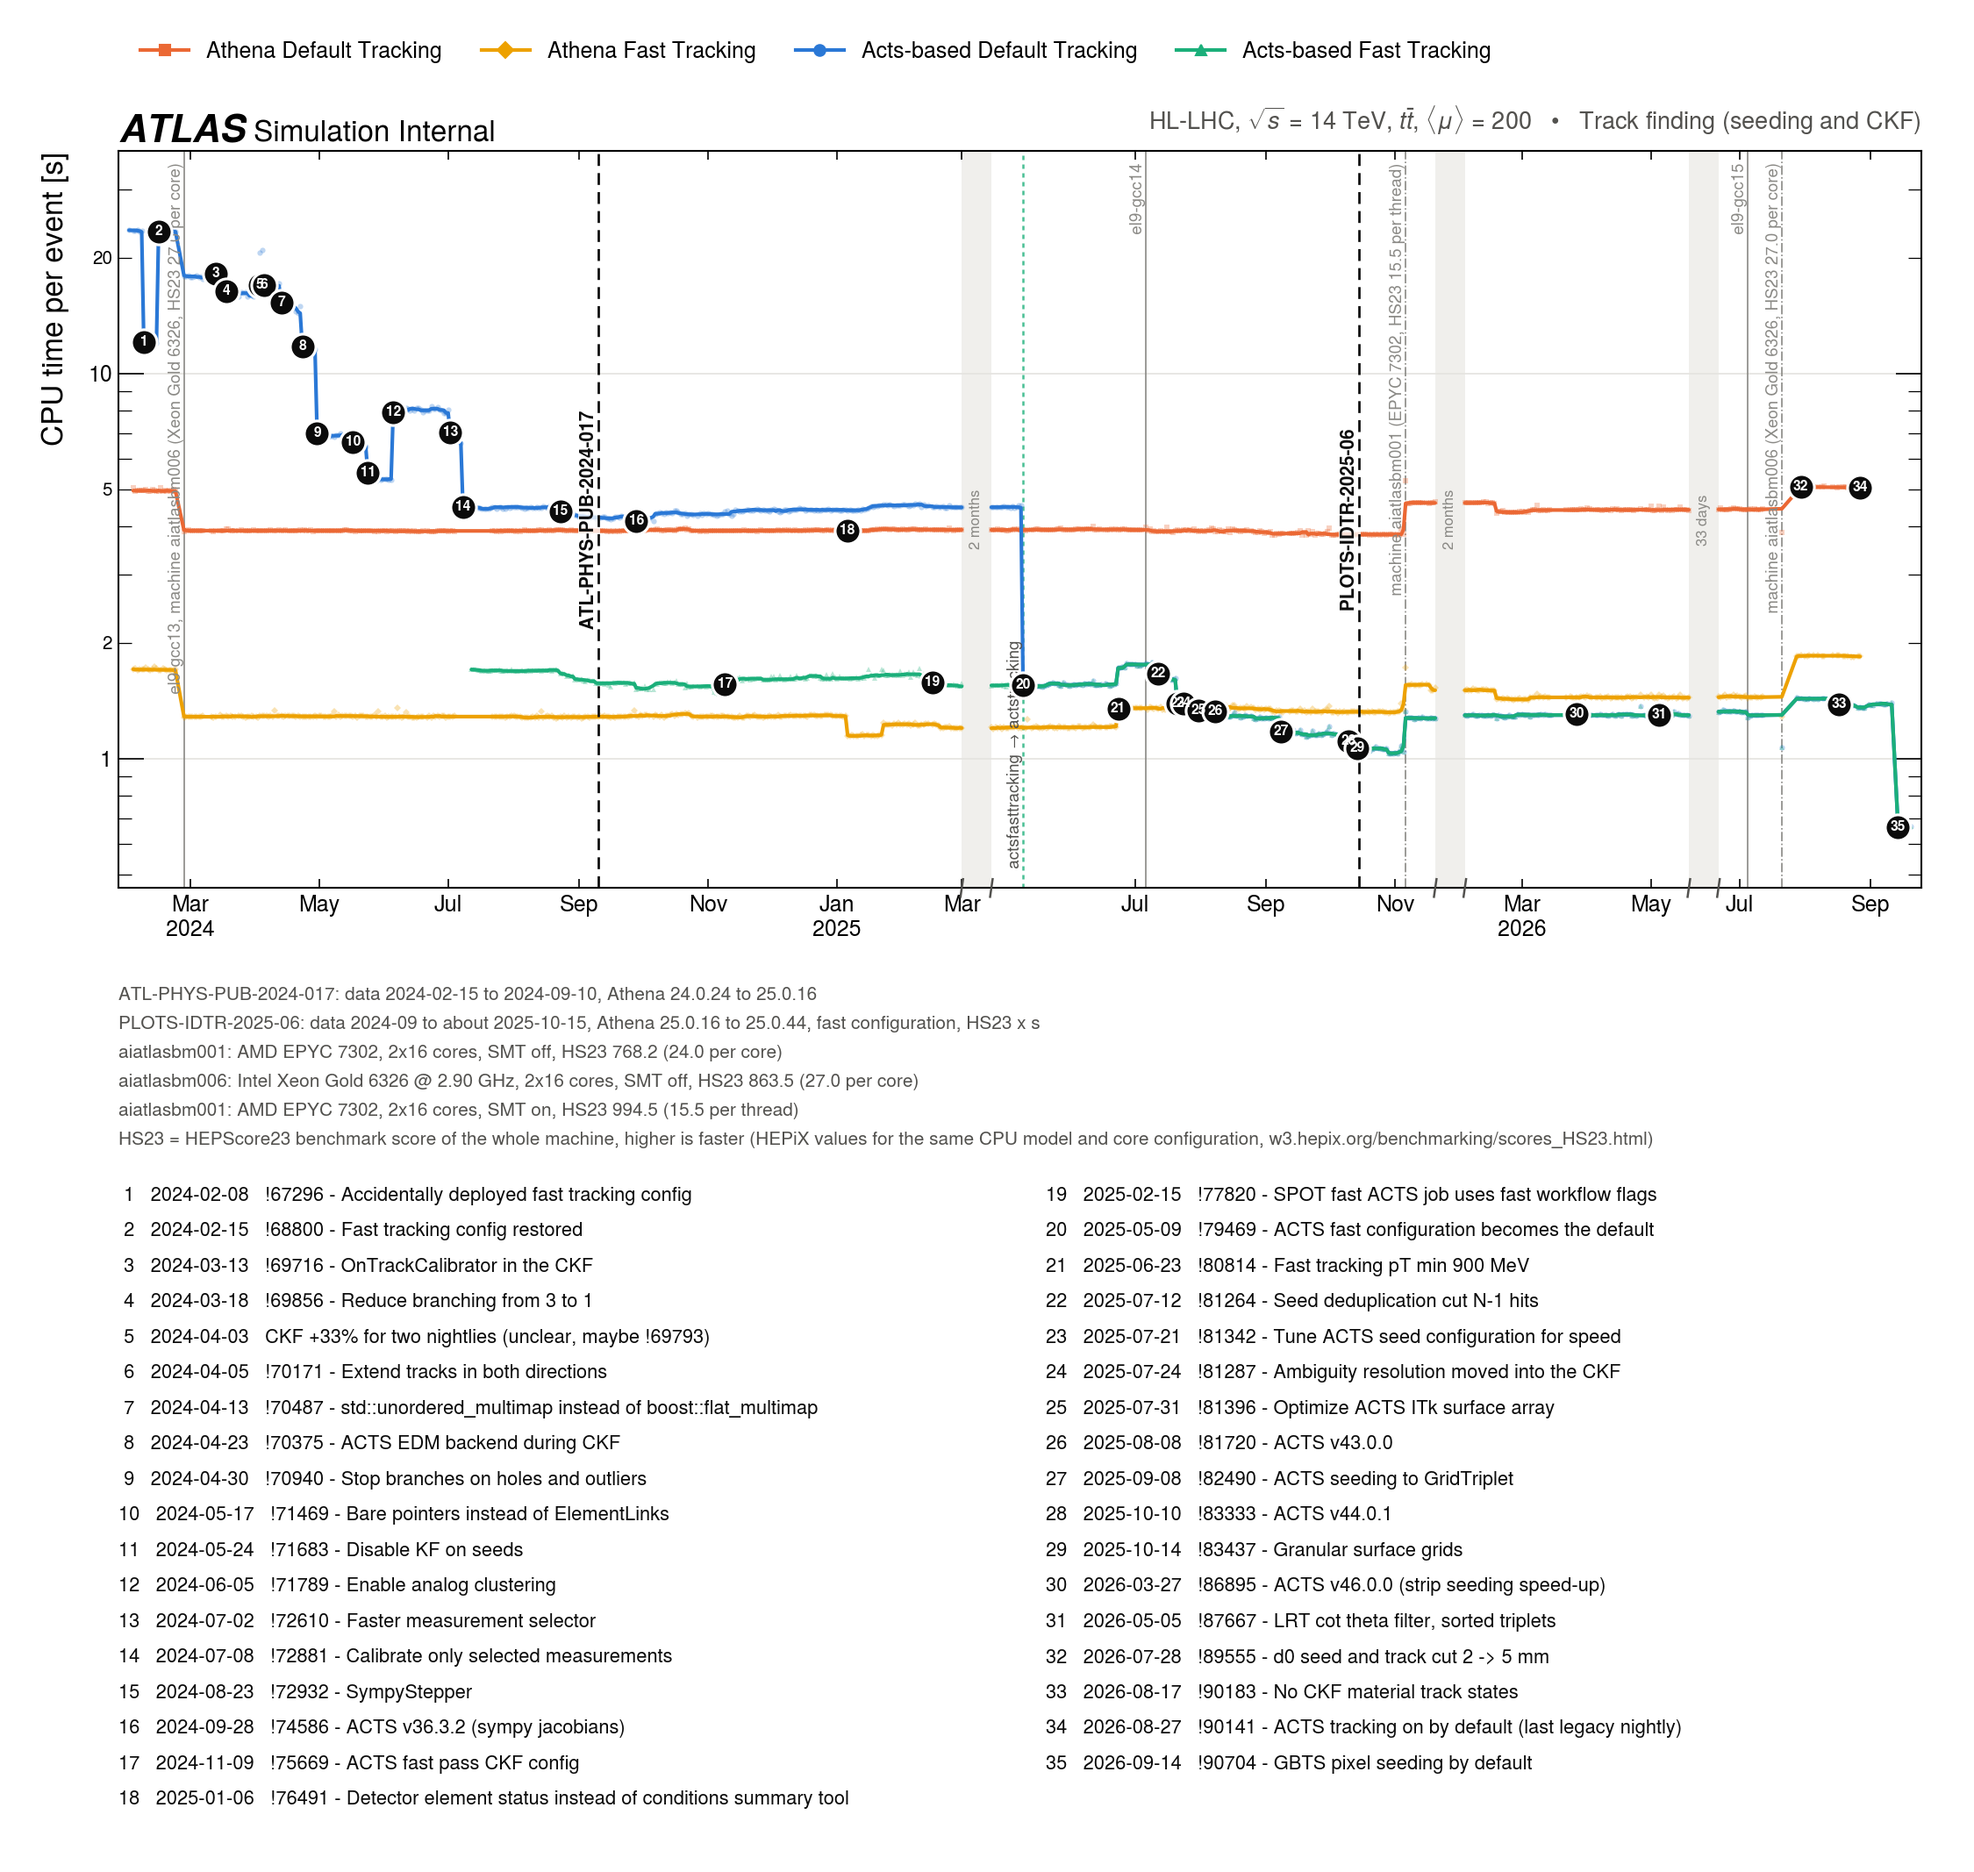
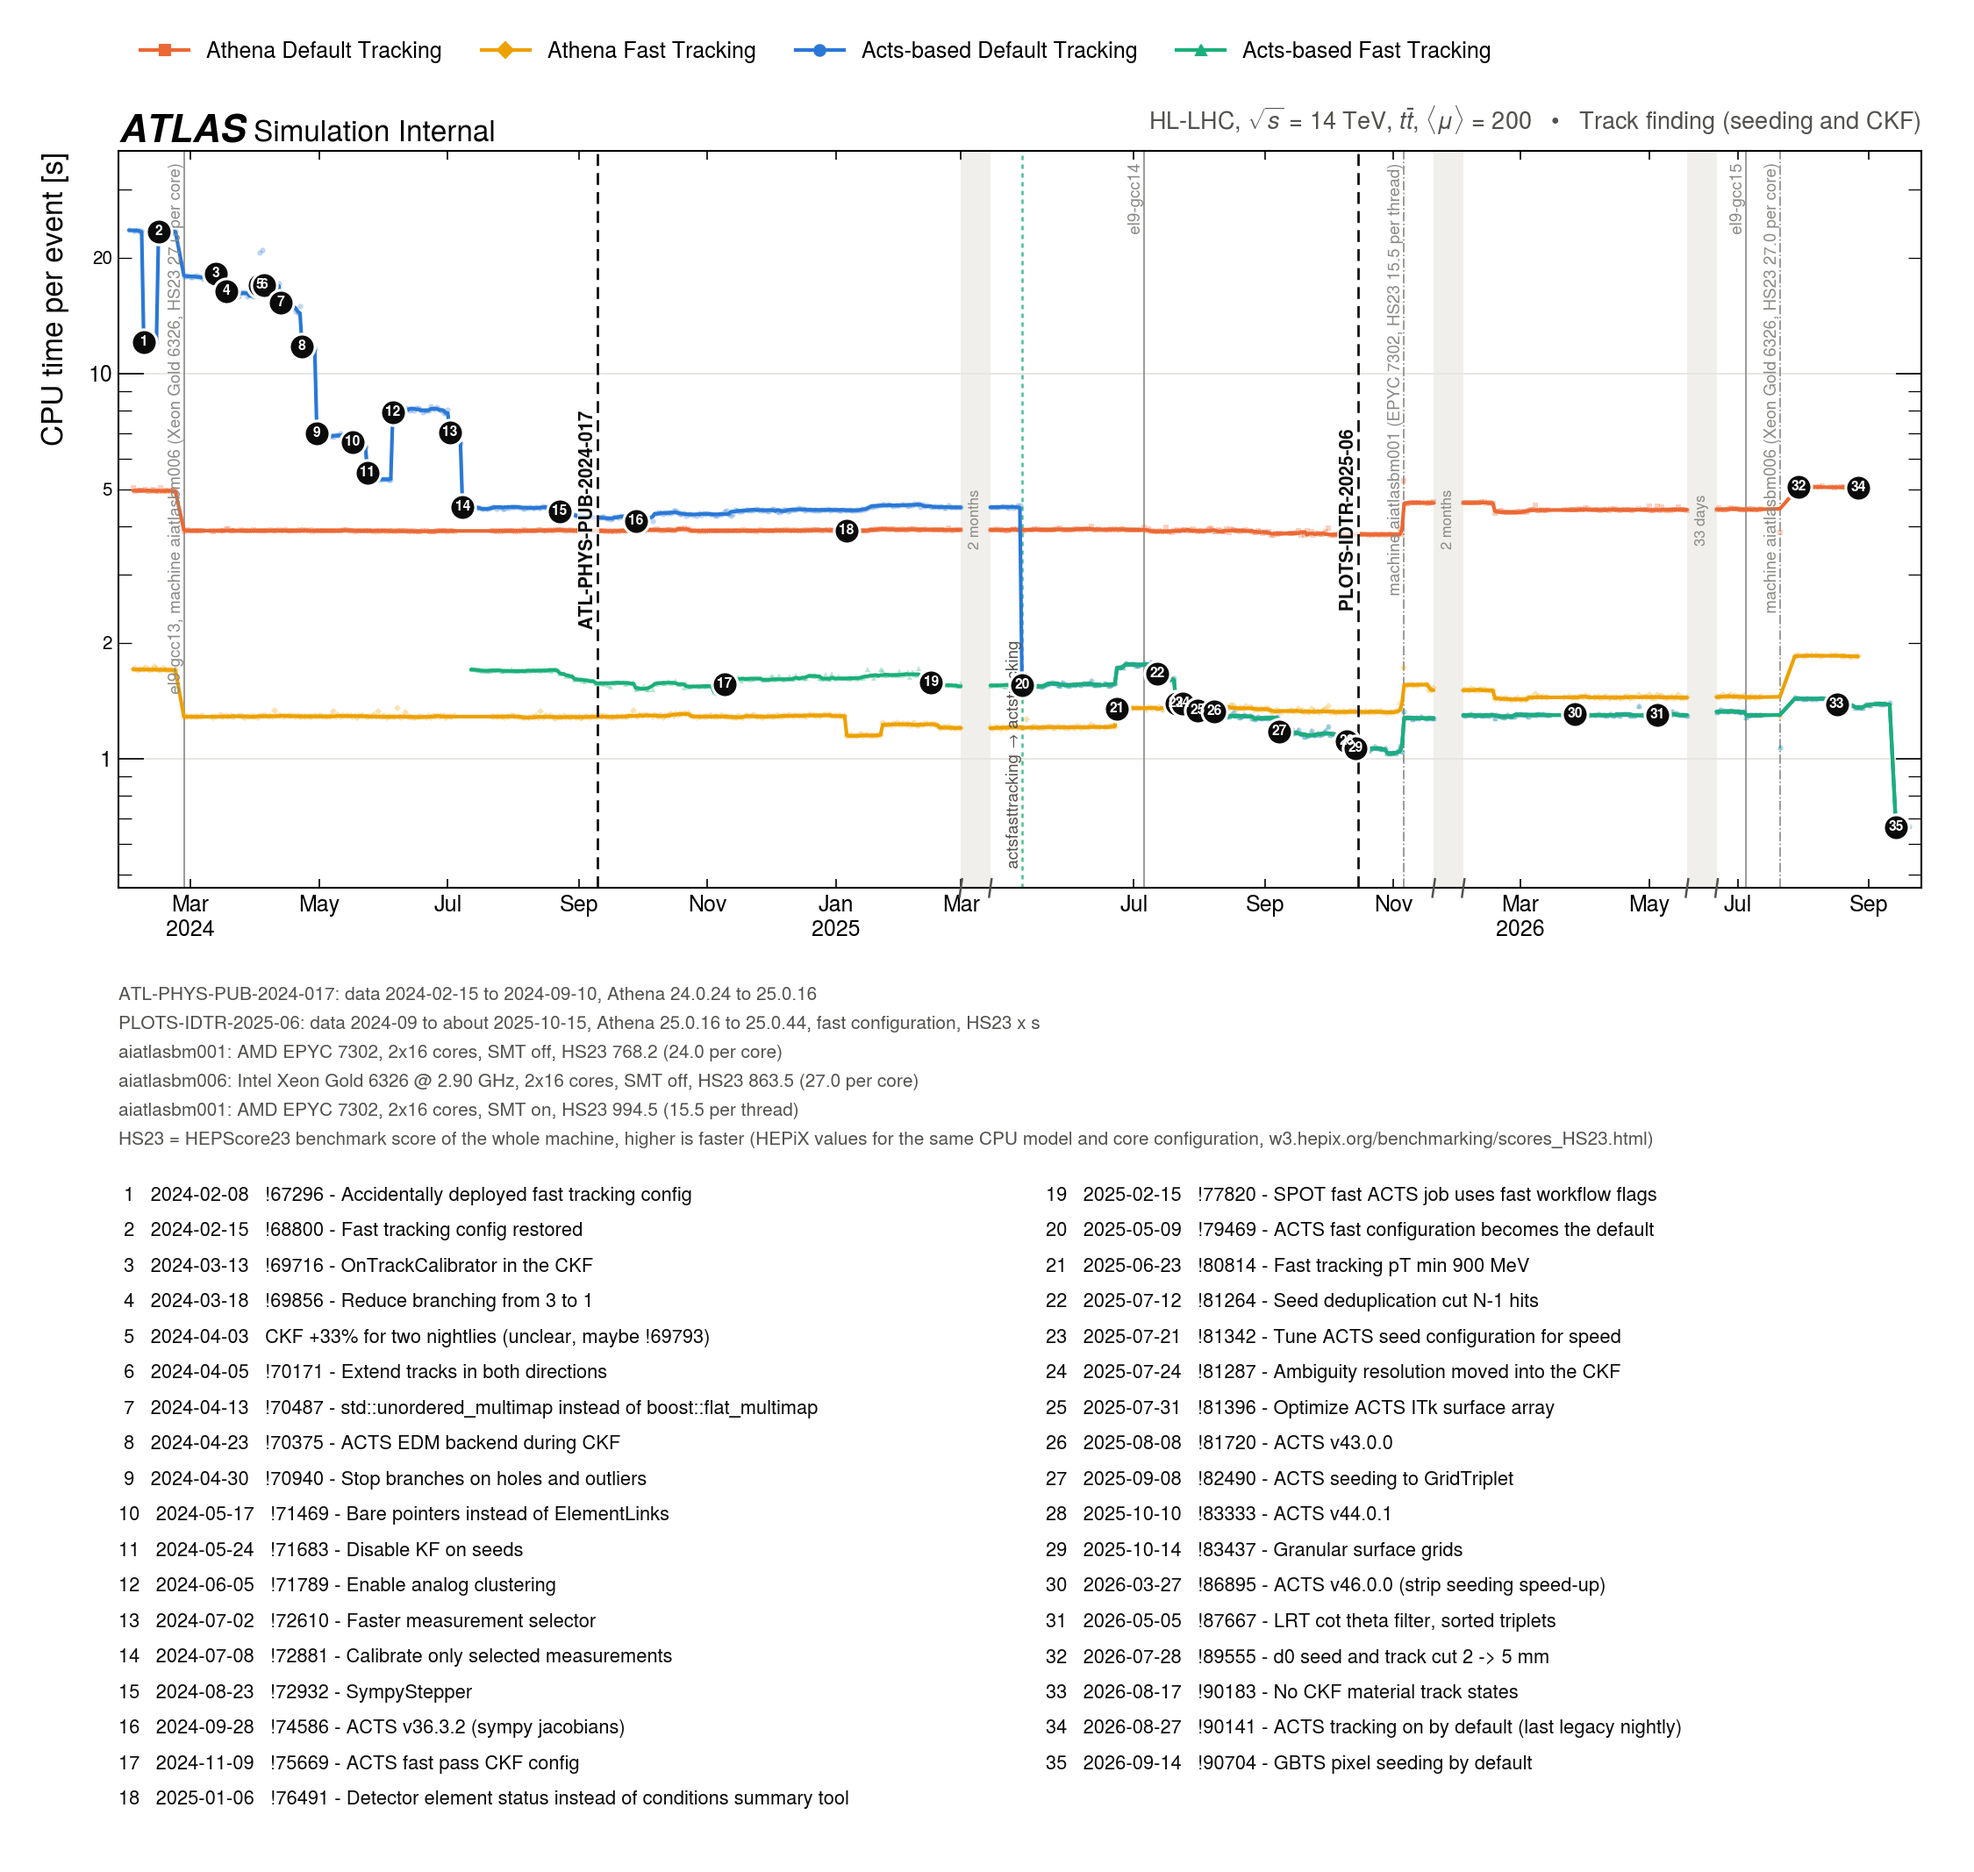
compare the fast and the full configurations in the full chain plot; add the CKF plot
The full chain plot shows the legacy fast and the ACTS fast configurations next
to the default ones. The ACTS full configuration follows the acts_legacy flavor,
because it is the ACTS default until 2025-05-08.

All plots start on 2024-02-01, and the plotter takes the x range from the dates
of the config, so that plots with the same dates have the same x range.

The labels of two moves on about the same date go to both sides of the lines.
The plotter sorts the moves by date, so the label of the left line goes to the
left.

Annotate the new SPOT input geometry (!90482) and ACTS v47.7.0 (!90675), because
they change the efficiency.

Claude-Session: https://claude.ai/code/session_019eX9tgjMzsAdBJ779KSB3S

diff --git a/spotter/plotter.py b/spotter/plotter.py
@@ -213,8 +213,9 @@ def plot_timeseries(
     numbers the annotations in a list below the plot.
     """
     flavors = config["flavors"]
-    start = min(df.index.min() for df in data.values() if len(df) > 0)
-    end = max(df.index.max() for df in data.values() if len(df) > 0)
+    # the dates of the config, so that plots with the same dates have the same x range
+    start = pd.Timestamp(config["dates"]["start"])
+    end = pd.Timestamp(config["dates"]["end"])
 
     # the layout in inches, so that it does not depend on the number of annotations
     columns = 2 if len(annotations) > 8 else 1
@@ -239,7 +240,7 @@ def plot_timeseries(
         ]
     )
 
-    tag_label_x: list[float] = []
+    moves: list[tuple[float, str, str]] = []
     for flavor, df in data.items():
         if len(df) == 0:
             continue
@@ -262,22 +263,25 @@ def plot_timeseries(
         for d, old, new in tag_changes(df):
             if axis.is_cut([d])[0]:
                 continue
-            xd = axis.forward([d])[0]
-            # two moves on about the same date get their labels on both sides
-            side = "left" if any(abs(xd - x) < 15 for x in tag_label_x) else "right"
-            tag_label_x.append(xd)
-            ax.axvline(xd, color=color, lw=1.2, ls=(0, (2, 2)), alpha=0.8, zorder=1)
-            ax.text(
-                xd,
-                0.02,
-                f" {old} → {new}",
-                transform=blended_transform_factory(ax.transData, ax.transAxes),
-                rotation=90,
-                ha=side,
-                va="bottom",
-                fontsize=9,
-                color=TEXT_SECONDARY,
-            )
+            moves.append((axis.forward([d])[0], color, f" {old} → {new}"))
+
+    # two moves on about the same date get their labels on both sides:
+    # the label of the left line goes to the left, and the other label to the right
+    moves.sort(key=lambda m: m[0])
+    for i, (xd, color, label) in enumerate(moves):
+        side = "left" if i > 0 and xd - moves[i - 1][0] < 15 else "right"
+        ax.axvline(xd, color=color, lw=1.2, ls=(0, (2, 2)), alpha=0.8, zorder=1)
+        ax.text(
+            xd,
+            0.02,
+            label,
+            transform=blended_transform_factory(ax.transData, ax.transAxes),
+            rotation=90,
+            ha=side,
+            va="bottom",
+            fontsize=9,
+            color=TEXT_SECONDARY,
+        )
 
     # changes of the platform and of the SPOT machine, one line and label per date
     top = blended_transform_factory(ax.transData, ax.transAxes)
